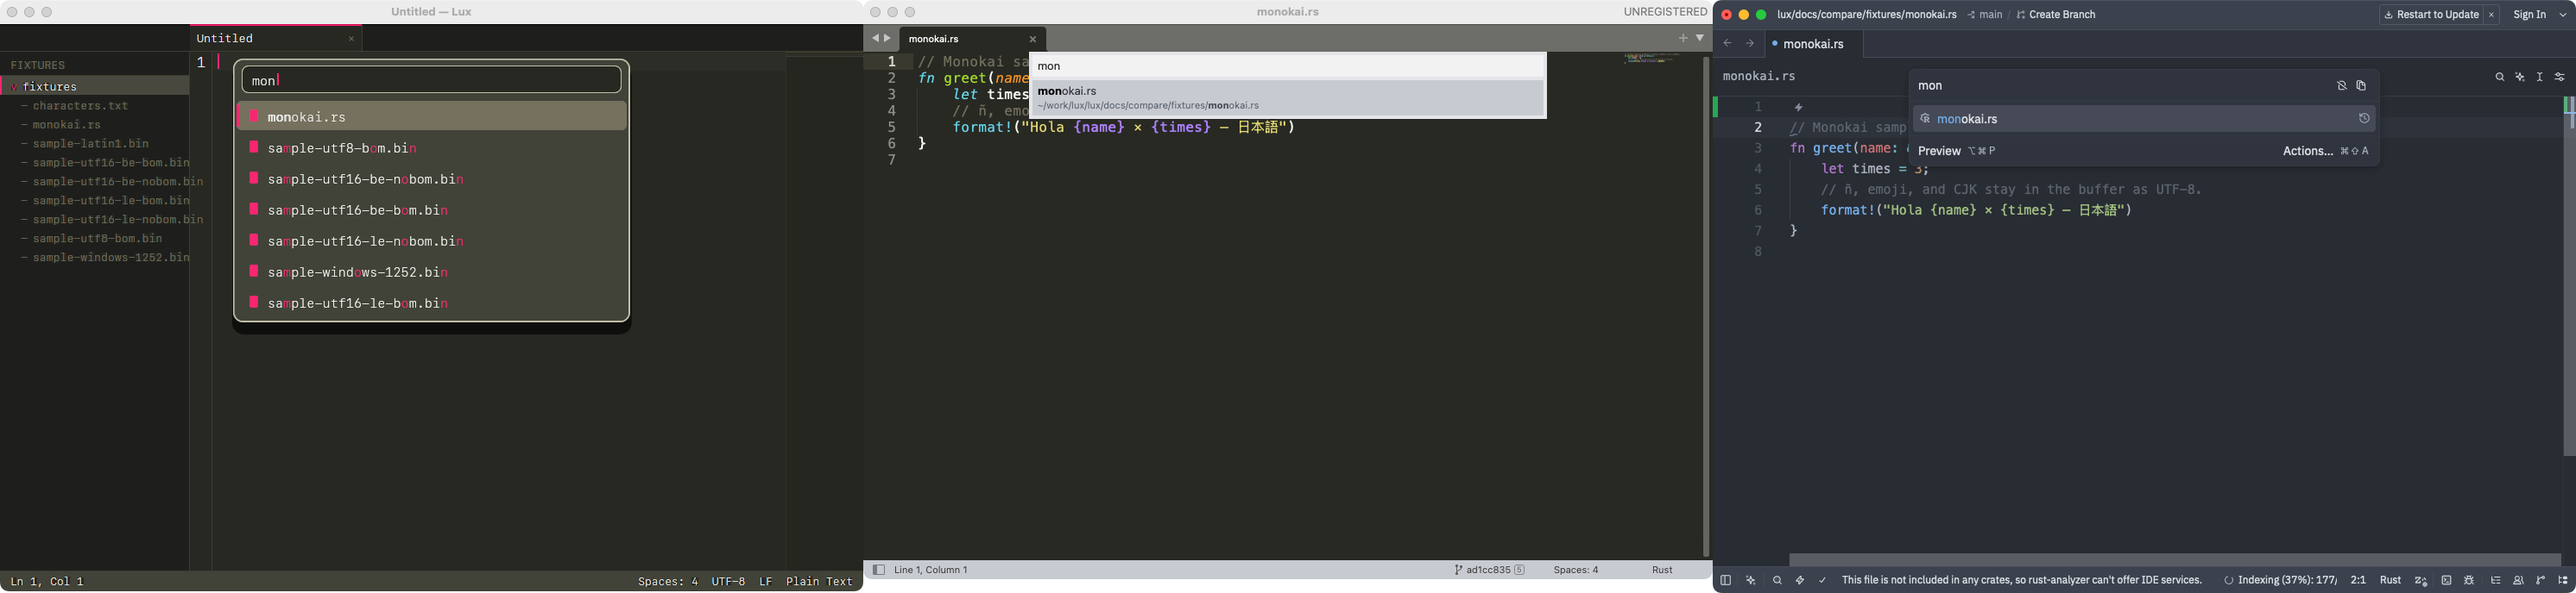
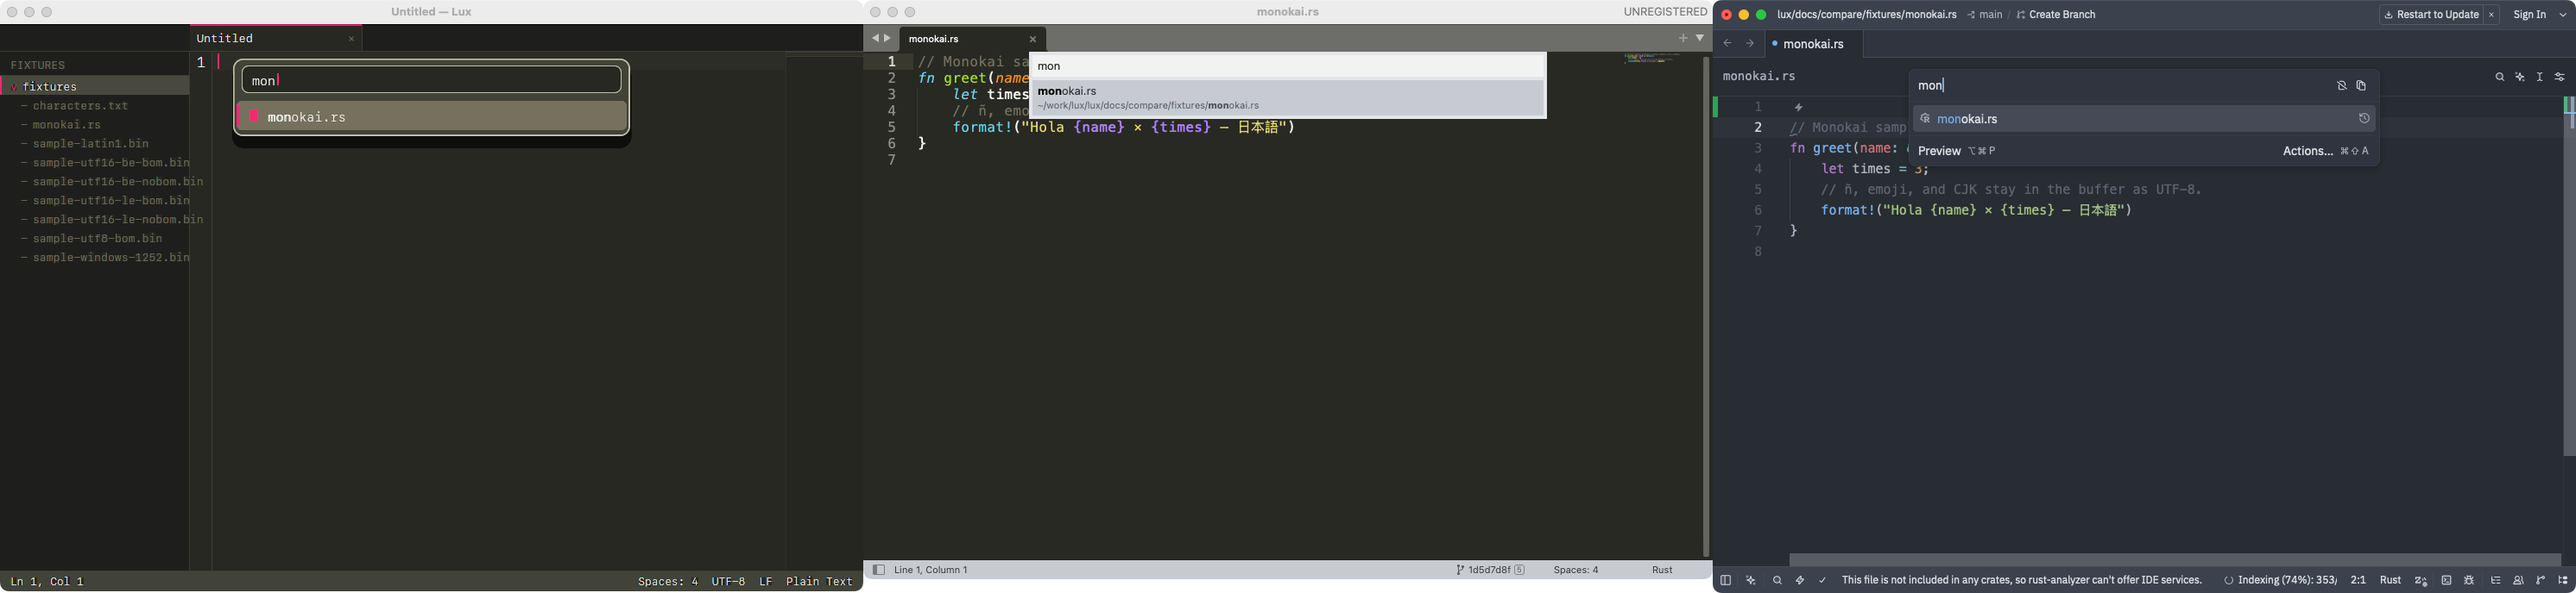
docs: close block 0 on compare 41363899505
Go to file with mon lists monokai.rs beside Sublime and Zed.
Workspace version is 1.4.0.

Changed region(s): [[0.0623, 0.2137, 0.2493, 0.5799], [0.561, 0.9462, 0.5922, 0.9767]]

diff --git a/docs/ROADMAP.md b/docs/ROADMAP.md
@@ -39,10 +39,11 @@ that produced it:
 
 The capture above is the previous build. `docs/compare/monokai-side-by-side.png`,
 `docs/compare/characters.png`, and `docs/compare/selectors.png` are the
-macos-15 windows from compare run 41357599959. 0.1 and 0.2 hold. The Lux
+macos-15 windows from compare run 41363899505. 0.1 and 0.2 hold. The Lux
 palette in that file is the wider card with the query `sel`, under the
-tab bar. `retina-palette.png` is that frame at scale factor 2. The runner
-is 1×, so Sublime is not in the scale-2 file. Block 0 stays open. No release.
+tab bar. Go to file with `mon` lists `monokai.rs`, as Sublime and Zed do.
+`retina-palette.png` is that frame at scale factor 2. The runner
+is 1×, so Sublime is not in the scale-2 file. Block 0 is closed.
 
 1. **Monokai is the launch theme.** `workbench.colorTheme` defaults to
    `monokai`. `Chrome` starts on `Theme::MONOKAI` and does not follow the
@@ -119,7 +120,7 @@ candidate either; the VS Code `theme-monokai` sources are MIT and are the
 first file to check. Sublime's bundled scheme is used only if its license
 allows redistribution.
 
-### 0.3 Text and selectors — parcial
+### 0.3 Text and selectors — hecho
 
 HiDPI frames (`scale_factor > 1`) rasterize grayscale masks and blend them
 with the quad already drawn for that surface. Scale 1 still uses subpixel
@@ -133,12 +134,12 @@ dark input well, and a drop shadow. Placeholders are "Execute a command…",
 foreground color, the selected row is `#75715E` with an accent bar, and
 fuzzy hits use the accent. The right-hand label is the real keymap chord
 when one exists. Compare run 41348580486 is the capture Forge rejected.
-Compare run 41357599959 shows the card under the tab bar, the query, the
-editor beside it, and go to file listing `monokai.rs` plus scattered
-`sample-*.bin` hits for `mon`. A match on the beige selection is the
-foreground, drawn twice; other rows keep the accent. Ranking now keeps a
-contiguous or word-initial match and drops those scattered names when
-one exists. The runner logged display scale 1. `retina-palette.png` is
+Compare run 41363899505 shows the card under the tab bar, the query, the
+editor beside it, and go to file listing only `monokai.rs` for `mon`,
+beside Sublime and Zed. A match on the beige selection is the
+foreground, drawn twice; other rows keep the accent. Ranking keeps a
+contiguous or word-initial match and drops scattered names when one
+exists. The runner logged display scale 1. `retina-palette.png` is
 the scale-2 framebuffer (2000×1312). Forge accepts that file as Lux's
 Retina render; Sublime cannot be captured at that scale on the 1× runner.
 Open motion is a 120 ms fade and an 8 px slide. The still is the settled
@@ -151,7 +152,7 @@ height, and SF Mono when the file exists, otherwise Menlo, otherwise a
 bundled monospace face. The command palette, goto-file, theme picker, and
 completion list do fuzzy match, highlight the matched characters, show
 icons, and use a rounded shadowed surface. Motion is short and does not
-block input. 0.3 stays open until a new compare capture holds.
+block input. Compare run 41363899505 holds. 0.3 holds with block 0.
 
 ### Block 0 is closed only when these captures exist
 
@@ -165,11 +166,14 @@ before that.
 - `docs/compare/characters.png` — the Lux window on the special-character
   fixture, same resolution.
 - `docs/compare/selectors.png` — Lux, Sublime Text, and Zed with the
-  command palette open and the query `sel`. Compare run 41357599959.
-  The runner is 1×. `retina-palette.png` is Lux's renderer at scale 2.
-  This row stays open until the comparison holds.
+  command palette open and the query `sel`. Compare run 41363899505.
+  `goto.png` in that run is go to file with `mon`: Lux, Sublime, and Zed
+  each list `monokai.rs`. The runner is 1×. `retina-palette.png` is Lux's
+  renderer at scale 2. Forge accepts the palette, the goto list, and that
+  framebuffer. Block 0 is closed.
 
-If Lux loses that comparison, the block stays open and no release is tagged.
+If a later capture loses the comparison, the block opens again and no
+release is tagged for that regression.
 
 ### How the compare job works
 
@@ -296,13 +300,12 @@ Each phase ends with new `docs/compare/` captures from the job above. Phase
 3 also commits the benchmark table. No release is tagged for a phase that
 missed its bar.
 
-1. **Phase 0, in progress.** 0.1 and 0.2 hold. Compare run 41357599959
-   shows the wider palette with the editor beside it, and
-   `retina-palette.png` is the scale-2 framebuffer. The runner is 1×.
-   Block 0 stays open. No release.
-2. **Phase 0b.** The selector capture against Sublime and Zed. Close
-   block 0 only if Lux holds that comparison. That close is the first
-   release this plan allows.
+1. **Phase 0, closed.** 0.1 and 0.2 hold. Compare run 41363899505
+   shows the wider palette with the editor beside it, go to file with
+   `mon` listing `monokai.rs`, and `retina-palette.png` as the scale-2
+   framebuffer. The runner is 1×. Block 0 is closed. The release is v1.4.0.
+2. **Phase 0b.** The selector capture against Sublime and Zed. Compare
+   run 41363899505 holds. That close is the first release this plan allows.
 3. **Phase 1.** Block 1, the rest of the window (tree, tabs, status bar,
    minimap, splits, settings) on the Monokai frame from phase 0.
 4. **Phase 2.** Blocks 2 and 3 together. A command counts when its Sublime

diff --git a/docs/STATUS.md b/docs/STATUS.md
@@ -26,20 +26,20 @@
 > the accent. Go to file keeps a contiguous run or a word-initial match
 > and drops a scattered hit when one of those exists. `mon` on the compare
 > fixtures keeps `monokai.rs`. The `sample-*.bin` names match only as
-> `m`…`o`…`n` (`sample`, a later `o`, and the `n` in `.bin`). The committed
-> `docs/compare/goto.png` is from compare run 41357599959 and still shows
-> those bins; the next compare is the one that has to match Sublime.
-> `docs/compare/theme.png` shows the theme picker with `mo`.
-> `docs/compare/retina-palette.png` is that Lux frame from the renderer
-> at scale factor 2 (2000×1312). The runner logged display scale 1, so
-> Sublime is not in that file. Forge accepts that framebuffer as Lux's
-> Retina render and notes that the runner cannot capture Sublime in HiDPI.
-> Selector open motion is 120 ms: the card fades in and slides 8 px down
-> under the tab bar. Reduced motion skips it. The compare PNG is the
-> settled frame. `overlay_motion::the_open_animation_fades_and_slides_across_three_frames`
-> samples the start, the middle, and the end. Block 0 stays open until
-> the new goto capture matches Sublime. No release is tagged.
-> See [ROADMAP.md](ROADMAP.md).
+> `m`…`o`…`n` (`sample`, a later `o`, and the `n` in `.bin`).
+> `docs/compare/` is compare run 41363899505. `goto.png` is Lux, Sublime,
+> and Zed with `mon`; each list is `monokai.rs`. `selectors.png` is the
+> palette with `sel`, which Forge accepted. `theme.png` is the theme
+> picker with `mo`. `retina-palette.png` is that Lux frame from the
+> renderer at scale factor 2 (2000×1312). The runner logged display scale
+> 1, so Sublime is not in that file. Forge accepts that framebuffer as
+> Lux's Retina render and notes that the runner cannot capture Sublime
+> in HiDPI. Selector open motion is 120 ms: the card fades in and slides
+> 8 px down under the tab bar. Reduced motion skips it. The compare PNG
+> is the settled frame.
+> `overlay_motion::the_open_animation_fades_and_slides_across_three_frames`
+> samples the start, the middle, and the end. Block 0 is closed.
+> Workspace version 1.4.0 is that release. See [ROADMAP.md](ROADMAP.md).
 >
 > Current gap matrix (2026-10-31): [ROADMAP.md](ROADMAP.md). Historical audit: [AUDIT.md](AUDIT.md).
 > v1.3.1: macOS is the product focus. Linux and Windows are secondary.
@@ -2326,7 +2326,7 @@ notarized installers stay `not-started`: no certificate is stored in the repo.
 UIKeyInput, document picker) and Kotlin `LuxActivity` (SurfaceView,
 InputConnection, SAF) live in `host-ios/` and `host-android/`. Rust FFI
 modules compile on desktop as `available() == false`. Not run on device;
-store rows stay `not-started`. Workspace version 1.3.1 is the desktop installer
+store rows stay `not-started`. Workspace version 1.4.0 is the desktop installer
 release; these phase labels are the original plan names and are still not done.
 `lux_platform::child_processes_allowed` is false on iOS.
 

diff --git a/docs/compare/README.md b/docs/compare/README.md
@@ -7,7 +7,7 @@ opens `fixtures/monokai.rs` in both with Monokai, and opens
 windows. ImageMagick joins the Monokai pair.
 
 Committed PNGs, including `goto.png`, are copies of compare run
-41357599959. A file that did not come from the job is not a comparison.
+41363899505. A file that did not come from the job is not a comparison.
 If Sublime Text cannot be captured,
 the job fails and does not write a replacement image.
 
@@ -18,8 +18,8 @@ file with `mon`. Lux opens the fixtures directory for that shot, so the
 list is the folder index, not an empty panel from a file that has not
 loaded yet. A contiguous or word-initial match drops scattered names:
 `mon` keeps `monokai.rs` and not `sample-utf8-bom.bin` (its `m`, `o`,
-and `n` are not a run). The PNG from compare run 41357599959 still shows
-the scattered rows; replace it when a later run does not. `theme.png` is Lux and Sublime's color-scheme pickers
+and `n` are not a run). `goto.png` from compare run 41363899505 shows
+that single row in Lux, Sublime, and Zed. `theme.png` is Lux and Sublime's color-scheme pickers
 with `mo`; Zed's pane is its command palette filtered to `theme`,
 because this capture has no shortcut that opens Zed's theme selector.
 Zed is installed with `brew install --cask zed` and opened
